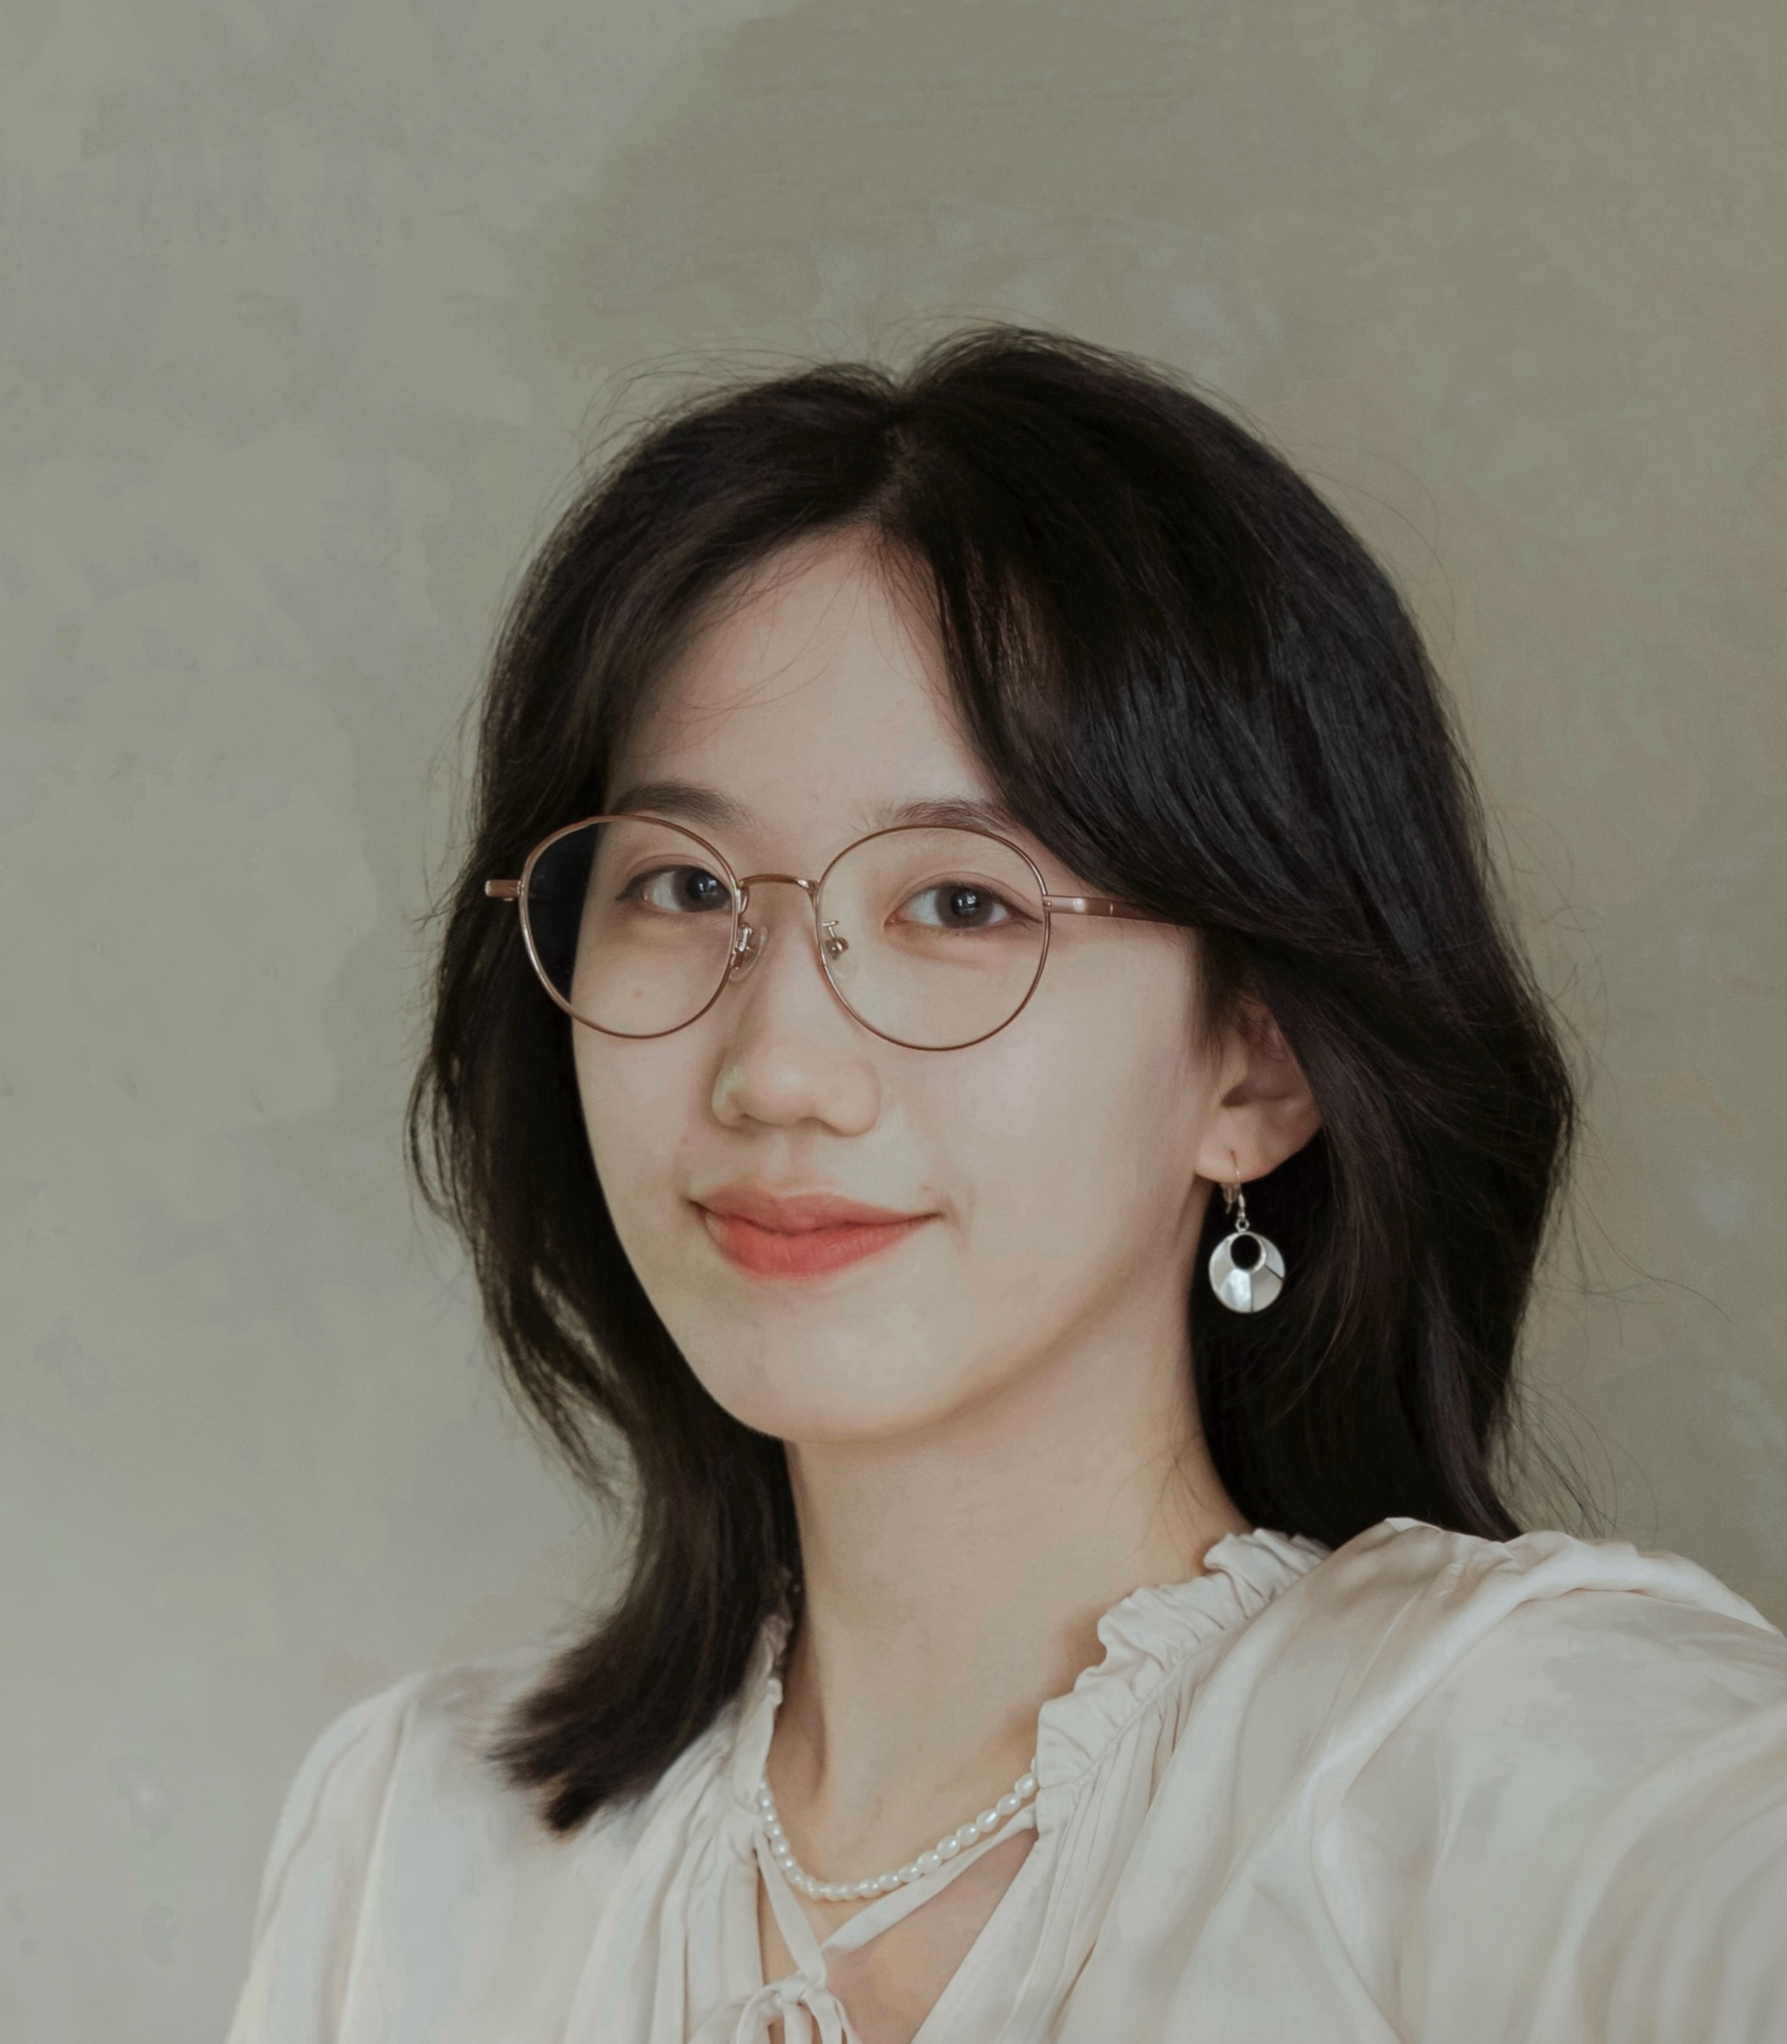
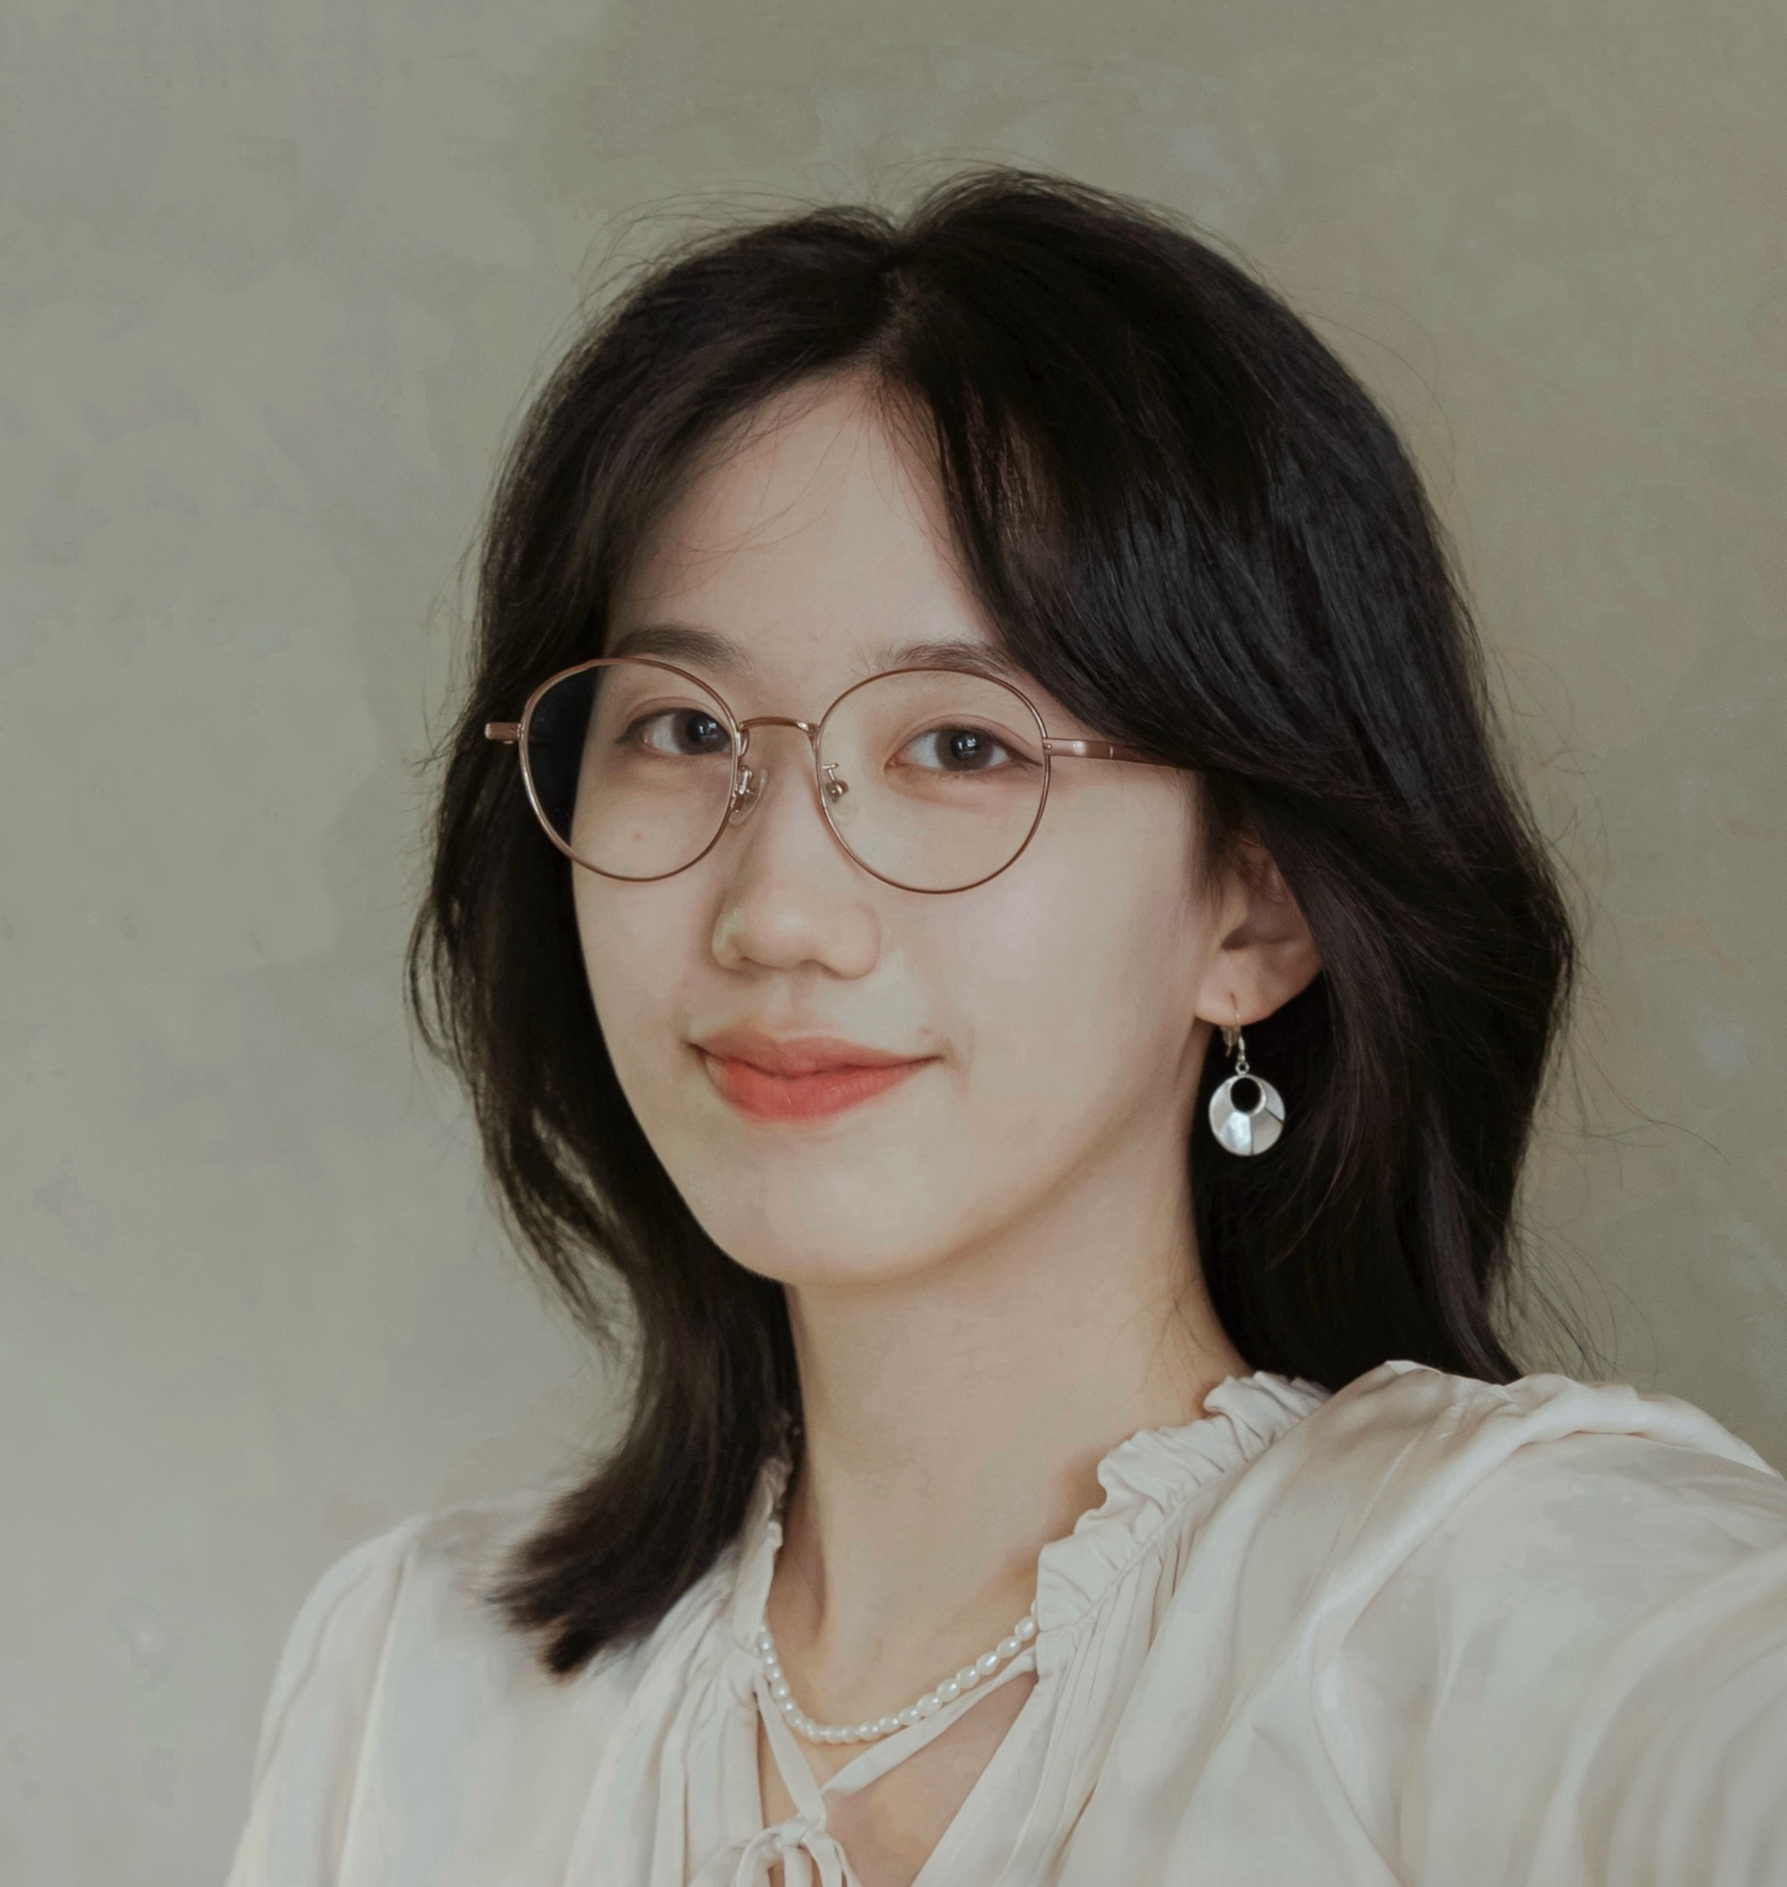
feat: update info

diff --git a/_sass/_themes.scss b/_sass/_themes.scss
@@ -10,8 +10,8 @@
   --global-code-bg-color: #{$code-bg-color-light};
   --global-text-color: #{$black-color};
   --global-text-color-light: #{$grey-color};
-  --global-theme-color: #7c5de3;
-  --global-hover-color: #7c5de3;
+  --global-theme-color: #6b5b95;
+  --global-hover-color: #6b5b95;
   --global-hover-text-color: #{$white-color};
   --global-footer-bg-color: #{$grey-color-dark};
   --global-footer-text-color: #{$grey-color-light};

diff --git a/_sass/_base.scss b/_sass/_base.scss
@@ -750,6 +750,9 @@ footer.sticky-bottom {
       margin-bottom: 1rem;
 
       .preview {
+        width: 100%;
+        max-width: 100%;
+        height: auto;
       }
 
       .abbr {

diff --git a/_pages/about.md b/_pages/about.md
@@ -24,9 +24,9 @@ latest_posts:
   limit: 3 # leave blank to include all the blog posts
 ---
 
-Hi! I'm an incoming Ph.D. student in Computer Science at [NYU Courant](https://cims.nyu.edu/dynamic/) ([Shanghai Track](https://shanghai.nyu.edu/page/computer-science-phd-program)), advised by Prof. [Shengjie Wang](https://sheng-jie-wang.github.io/). I’m currently completing my B.S. in Data Science (AI track) and Mathematics at [New York University Shanghai](https://shanghai.nyu.edu/) and [New York University](https://www.nyu.edu/). I am fortunate to work with Prof. [Shengjie Wang](https://sheng-jie-wang.github.io/) and Prof. [Lianhui Qin](https://lianhui.ucsd.edu/).
+Hi! I’m a first-year Ph.D. student in Computer Science at [NYU Courant](https://cims.nyu.edu/dynamic/) ([Shanghai Track](https://shanghai.nyu.edu/page/computer-science-phd-program)), advised by Prof. [Shengjie Wang](https://sheng-jie-wang.github.io/). I received my B.S. in Data Science (AI track) and Mathematics from [New York University Shanghai](https://shanghai.nyu.edu/) and [New York University](https://www.nyu.edu/) in 2026. I have also been fortunate to collaborate with Prof. [Lianhui Qin](https://lianhui.ucsd.edu/) since my undergraduate studies.
 
-My research interest lies at the intersection of **multimodal models** and **embodied AI**.
+My research interests lie in **embodied AI** and **robotics**, and I am also interested in **reinforcement learning** and **multimodal models**.
 
 <!-- Write your biography here. Tell the world about yourself. Link to your favorite [subreddit](http://reddit.com). You can put a picture in, too. The code is already in, just name your picture `prof_pic.jpg` and put it in the `img/` folder. -->
 

diff --git a/_news/announcement_2.md b/_news/announcement_2.md
@@ -1,0 +1,8 @@
+---
+layout: post
+date: 2026-9-1 00:00:00-0400
+inline: true
+related_posts: false
+---
+
+Started my Ph.D. in Computer Science at NYU 🌱
